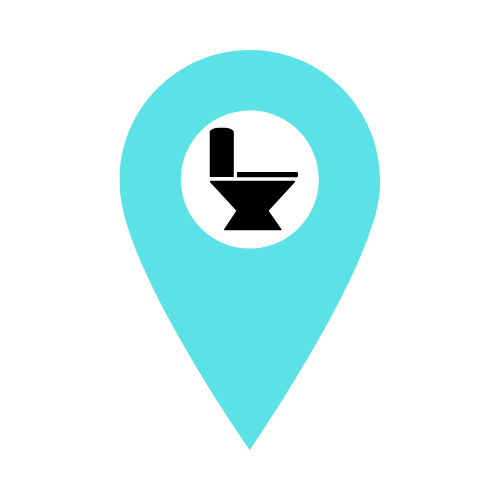
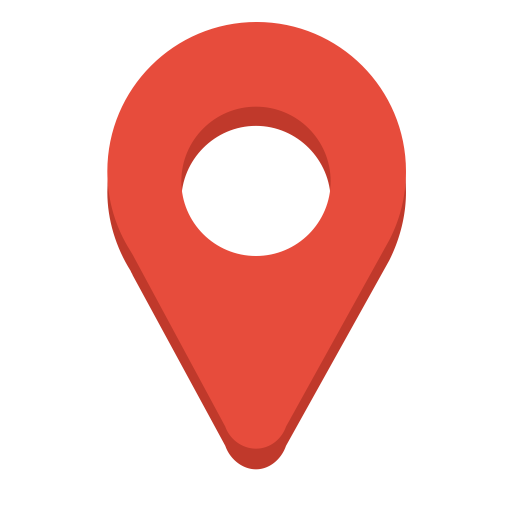
scrolling between marker and listing works

diff --git a/client/src/components/Listings.js b/client/src/components/Listings.js
@@ -2,27 +2,15 @@ import React, { Component } from 'react'
 import { connect } from 'react-redux'
 import { getGoogleMarkers, activeListing, getListing } from '../actions/looActions'
 import '../styles/mainmap.css'
-import { Link} from 'react-router-dom'
+import { Link } from 'react-router-dom'
 
 class Listings extends Component {
   componentDidMount() {
     getGoogleMarkers()
   }
 
-  componentWillUpdate() {
-    var node = this.refs.listings
-    this.shouldScrollBottom = node.scrollTop + node.offsetHeight === node.scrollHeight + 4
-  }
-  
-  componentDidUpdate() {
-    if (this.shouldScrollBottom) {
-        var node = this.refs.listings
-        node.scrollTop = node.scrollHeight
-    }
-  }
 
   handleMouseOver = (e, listing_id) => {
-    // console.log(this.props.id) 
     activeListing(listing_id)
   }
 
@@ -33,12 +21,14 @@ class Listings extends Component {
   render() {
 
     return (
-        <div id="roomwrap" ref="listings">
+        <div id="roomwrap" >
             <div id="room">
                 {this.props.markers.map(listing => (
                 <Link key=
                   {'listing' + listing.id} to={`/listing/${listing.place_id}`}>
-                    <div className={ this.props.hover === listing.id ? "listingBox listingBoxHover": "listingBox" } 
+                    <div id={listing.id}
+                      ref = { this.props.hover === listing.id ? "shouldScroll": "" } 
+                      className={ this.props.hover === listing.id ? "listingBox listingBoxHover": "listingBox" } 
                       onMouseOver={(e) => this.handleMouseOver(e, listing.id)}
                       onMouseOut={(e) => this.handleMouseOut(e, listing.id)} >
                         <p id="name3">{listing.name}</p>

diff --git a/client/src/components/GoogleMap.js b/client/src/components/GoogleMap.js
@@ -5,10 +5,12 @@ import { connect } from 'react-redux'
 import { getGoogleMarkers, activeHover } from '../actions/looActions'
 import '../styles/googlemap.css'
 
+
 class Marker extends Component {
   handleMouseOver = (e) => {
     // console.log(this.props.id) (checks if it works)
     activeHover(this.props.id)
+    document.getElementById(this.props.id).scrollIntoView()
   }
 
   handleMouseOut = (e) => {
@@ -19,8 +21,8 @@ class Marker extends Component {
       <img  
         className={this.props.className}
         src={this.props.image} 
-        height="45" 
-        width="45"
+        height="40" 
+        width="37"
         onMouseOver={this.handleMouseOver}
         onMouseOut={this.handleMouseOut}
       />
@@ -61,10 +63,11 @@ class GoogleMap extends Component {
               return <Marker 
                 lat={marker.location.lat}
                 lng={marker.location.lng}
-                image={'/icon.png'}
+                image={'/marker.png'}
                 key={marker + i}
                 id={marker.id} 
-                className={ this.props.listingHover === marker.id ? "marker markerHover": "marker" } />
+                className={ this.props.listingHover === marker.id ? "marker markerHover": "marker" } 
+                href={'/GoogleMap' + marker.id}/>
             })}
 
           

diff --git a/client/src/styles/App.css b/client/src/styles/App.css
@@ -4,6 +4,7 @@ html {box-sizing:border-box;}
 .ListingContainer {
     background-image: linear-gradient(lightgray,rgb(80, 219, 223));
     background-size: cover;  
+    overflow: scroll;
 }
 
 #body1{

diff --git a/client/src/styles/mainmap.css b/client/src/styles/mainmap.css
@@ -51,7 +51,7 @@ header, footer {
 
 .listingBox:hover, .listingBoxHover {
     cursor: pointer;
-    background-color: gainsboro;    
+    background-color: rgb(240, 240, 240);    
 }
 
 a {
